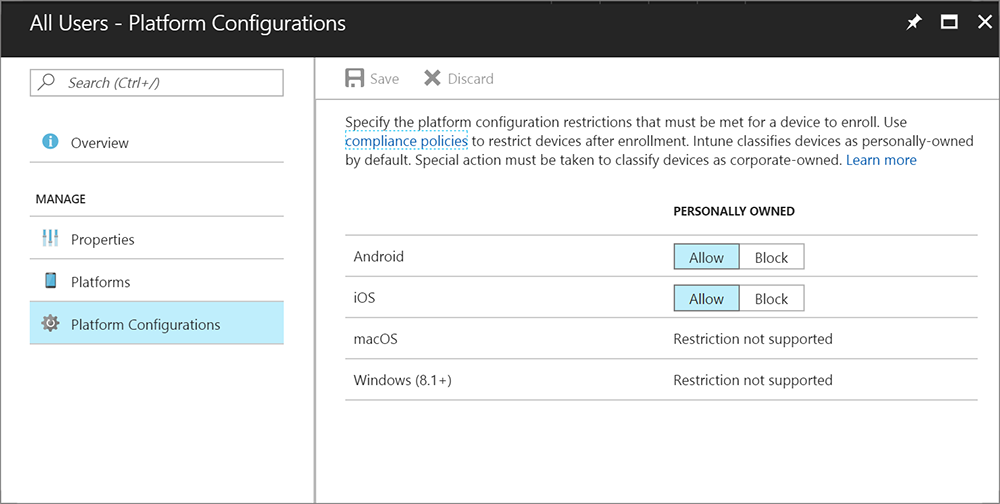
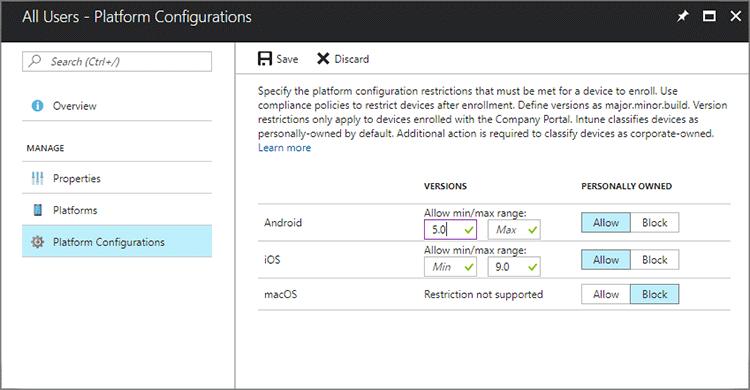
updates 1707 release

diff --git a/intune/enrollment-restrictions-set.md b/intune/enrollment-restrictions-set.md
@@ -38,21 +38,20 @@ As an Intune admin, you can determine which devices can enroll into management w
   - iOS
   - macOS
   - Windows
-  - Platform operating system version (iOS and Android only)
-    - Minimum version
-    - Maximum version
-  - Restrict personally owned devices (iOS, Android, macOS only)
+- Platform operating system version (iOS and Android only)
+  - Minimum version
+  - Maximum version
+- Restrict personally owned devices (iOS, Android, macOS only)
 
 >[!NOTE]
->Enrollment restrictions are not a security feature. Compromised devices can misrepresent their character. These restrictions are a best-effort barrier for non-malicious users.
+>Enrollment restrictions are not security features. Compromised devices can misrepresent their character. These restrictions are a best-effort barrier for non-malicious users.
 
 ## Set device type restrictions
-The default enrollment restrictions apply to all users who aren't assigned higher priority enrollment restrictions.  
+The default enrollment restrictions apply to all users and userless enrollments.
 1. Sign into the Azure portal.
 2. Choose **More Services** > **Monitoring + Management** > **Intune**.
 3. Choose **Device enrollment** > **Enrollment restrictions**.
-![Screenshot of the device restrictions workspace with the default device type restrictions and device limit restrictions.](media/device-restrictions-set-default.png)
-2. Under **Enrollment restrictions** > **Device Type Restrictions**, select **Default**.
+4. Under **Enrollment restrictions** > **Device Type Restrictions**, select **Default**.
 3. Under **All Users**, select **Platforms**. Choose **Allow** or **Block** for each platform:
   - **Android**
   - **iOS**
@@ -60,17 +59,17 @@ The default enrollment restrictions apply to all users who aren't assigned highe
   - **Windows**
 
   Click **Save**.
-4. Under **All Users**, select **Platform Configurations** and select the following configurations:
+4. Under **All Users**, select **Platform Configurations** and select the following configurations. For each platform allowed, you can configure the following options:
   - **Versions** - Specify **Min** and **Max** platform operating system versions for Android and iOS devices. Operating system versions don't apply to devices enrolling with Device Enrollment Program, Apple School Manager, or the Apple Configurator app.
-  - **Personally Owned** - Specify whether to **Allow** or **Block** for Android and iOS devices.
+  - **Personally Owned** - Specify whether to **Allow** or **Block** for Android, iOS, and macOS devices.
   ![Screenshot of the device restrictions workspace with the default device platform configurations showing personally owned settings configured.](media/device-restrictions-platform-configurations.png)
   Click **Save**.
 
->[!NOTE] 
->If you block personally owned Android devices from enrollment, Android for Work devices can still be enrolled.
+>[!NOTE]
+>If you block personally owned Android devices from enrollment, personally owned Android for Work devices can still enroll.
 
 ## Set device limit restrictions
-The default enrollment restrictions apply to all users who aren't assigned higher priority enrollment restrictions.  
+The default enrollment restrictions apply to all users.
 1. Sign into the Azure portal.
 2. Choose **More Services** > **Monitoring + Management** > **Intune**.
 3. Choose **Device enrollment** > **Enrollment restrictions**.
